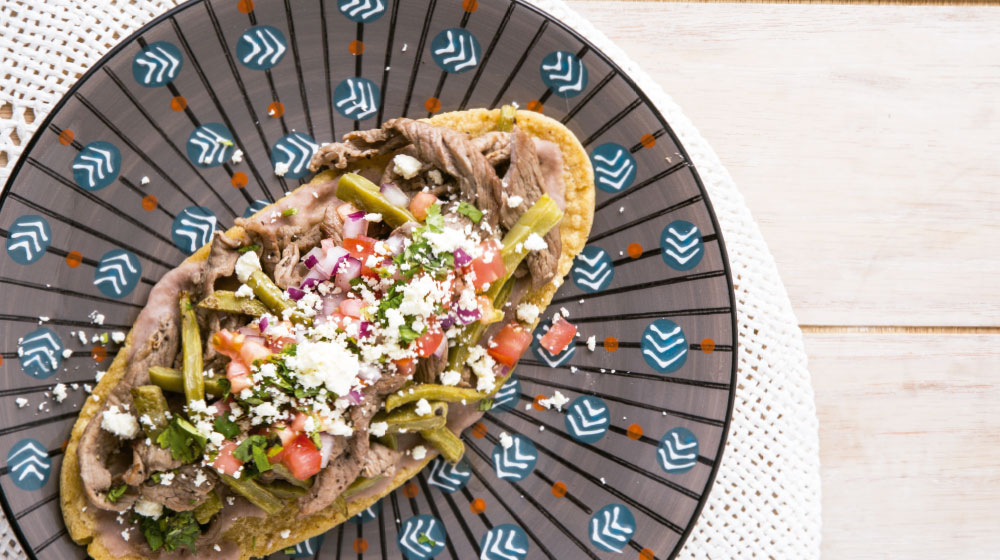
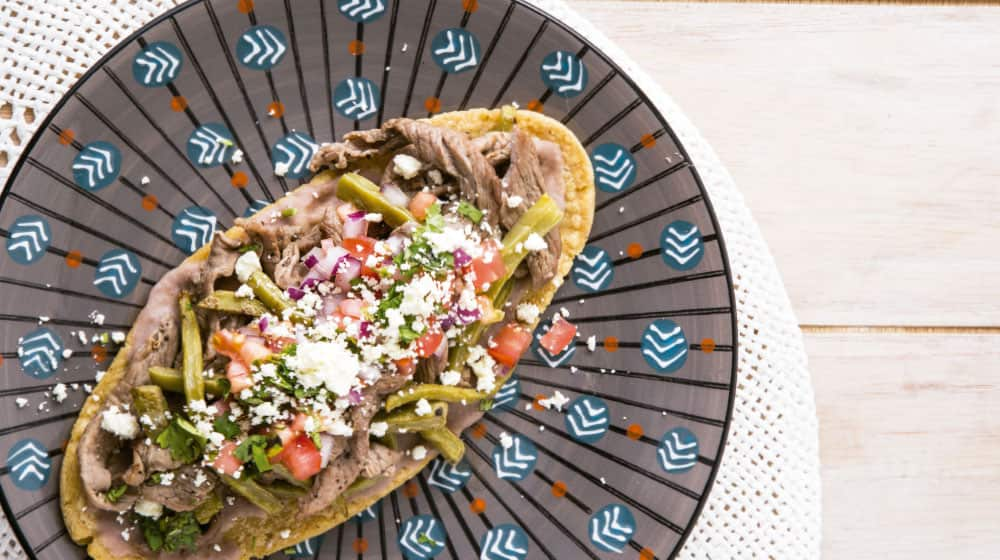
Optimizacion de las imagenes, bajandolas 7mb

diff --git a/desarrollo/js/comidas_bd.js b/desarrollo/js/comidas_bd.js
@@ -547,7 +547,7 @@ export const platillos_bd = {
 	},
 
 	info_platillo_garnacha_oaxaquena: {
-		nombre_platillo: 'garnacha_oaxaquena',
+		nombre_platillo: 'garnacha oaxaquena',
 		id_platillo: 'info_platillo_garnacha_oaxaquena',
 		ruta_imagen_platillo: 'Assets/img/garnacha_oaxaquena.JPG',
 		alt_imagen: 'garnacha_oaxaquena',
@@ -566,7 +566,7 @@ export const platillos_bd = {
 	info_platillo_molote_pollo: {
 		nombre_platillo: 'Molote Pollo',
 		id_platillo: 'info_platillo_molote_pollo',
-		ruta_imagen_platillo: 'Assets/img/molote_pollo.JPG',
+		ruta_imagen_platillo: 'Assets/img/molote.JPG',
 		alt_imagen: 'molote_pollo',
 		precio_platillo: '$40',
 		ingredientes_principales: ['Pollo'],
@@ -585,7 +585,7 @@ export const platillos_bd = {
 	info_platillo_molote_picadillo: {
 		nombre_platillo: 'Molote Picadillo',
 		id_platillo: 'info_platillo_molote_picadillo',
-		ruta_imagen_platillo: 'Assets/img/molote_picadillo.JPG',
+		ruta_imagen_platillo: 'Assets/img/molote.JPG',
 		alt_imagen: 'molote_picadillo',
 		precio_platillo: '$40',
 		ingredientes_principales: ['Picadillo'],
@@ -604,7 +604,7 @@ export const platillos_bd = {
 	info_platillo_molote_longaniza: {
 		nombre_platillo: 'Molote Longaniza',
 		id_platillo: 'info_platillo_molote_longaniza',
-		ruta_imagen_platillo: 'Assets/img/molote_longaniza.JPG',
+		ruta_imagen_platillo: 'Assets/img/molote.JPG',
 		alt_imagen: 'molote_longaniza',
 		precio_platillo: '$40',
 		ingredientes_principales: ['Longaniza'],
@@ -623,7 +623,7 @@ export const platillos_bd = {
 	info_platillo_molote_cecina: {
 		nombre_platillo: 'Molote Cecina',
 		id_platillo: 'info_platillo_molote_cecina',
-		ruta_imagen_platillo: 'Assets/img/molote_cecina.JPG',
+		ruta_imagen_platillo: 'Assets/img/molote.JPG',
 		alt_imagen: 'molote_cecina',
 		precio_platillo: '$40',
 		ingredientes_principales: ['Cecina'],
@@ -642,7 +642,7 @@ export const platillos_bd = {
 	info_platillo_molote_quesillo: {
 		nombre_platillo: 'Molote Quesillo',
 		id_platillo: 'info_platillo_molote_quesillo',
-		ruta_imagen_platillo: 'Assets/img/molote_quesillo.JPG',
+		ruta_imagen_platillo: 'Assets/img/molote.JPG',
 		alt_imagen: 'molote_quesillo',
 		precio_platillo: '$40',
 		ingredientes_principales: ['Quesillo'],
@@ -661,7 +661,7 @@ export const platillos_bd = {
 	info_platillo_molote_chicharron_prensado: {
 		nombre_platillo: 'Molote Chicharron Prensado',
 		id_platillo: 'info_platillo_molote_chicharron_prensado',
-		ruta_imagen_platillo: 'Assets/img/molote_chicharron_prensado.JPG',
+		ruta_imagen_platillo: 'Assets/img/molote.JPG',
 		alt_imagen: 'molote_chicharron_prensado',
 		precio_platillo: '$40',
 		ingredientes_principales: ['Chicharron Prensado'],

diff --git a/desarrollo/css/styles.css b/desarrollo/css/styles.css
@@ -385,35 +385,26 @@ header {
 }
 
 header .comanda {
-  display: -webkit-box;
-  display: -ms-flexbox;
-  display: flex;
-  -webkit-box-pack: center;
-      -ms-flex-pack: center;
-          justify-content: center;
-  -webkit-box-align: center;
-      -ms-flex-align: center;
-          align-items: center;
-  width: 100px;
-  height: 50px;
+  background-image: url("../Assets/svg/food_plate.svg");
+  background-repeat: no-repeat;
+  background-position: center;
   background-color: #44af69;
   border-radius: 0px 0 50px 50px;
   -webkit-box-shadow: 2px 0px 18px -5px rgba(0, 0, 0, 0.863);
           box-shadow: 2px 0px 18px -5px rgba(0, 0, 0, 0.863);
   position: absolute;
   right: 0%;
-  background-image: url("../Assets/svg/food_plate.svg");
-  background-repeat: no-repeat;
-  background-position: center;
-  -webkit-transition: ease all .15s;
-  transition: ease all .15s;
+  -webkit-transition: ease all 0.15s;
+  transition: ease all 0.15s;
+  height: 50px;
+  width: 100px;
 }
 
 header .comanda:hover {
-  -webkit-transition: ease all .15s;
-  transition: ease all .15s;
-  cursor: pointer;
   background-color: #fcab10;
+  cursor: pointer;
+  -webkit-transition: ease all 0.15s;
+  transition: ease all 0.15s;
 }
 
 * {
@@ -452,31 +443,5 @@ body .content main {
   -webkit-box-pack: center;
       -ms-flex-pack: center;
           justify-content: center;
-}
-
-.algo {
-  border: 2px solid #f8333c;
-  background: #f1f1f1;
-  border-radius: 5px;
-  color: #352f2f;
-  cursor: pointer;
-  font-weight: 600;
-  font-size: 20px;
-  height: 32px;
-  opacity: 0.8;
-  position: absolute;
-  right: 0%;
-  width: 32px;
-  -webkit-transition: ease all 85.2s;
-  transition: ease all 85.2s;
-}
-
-.algo:hover {
-  opacity: 1;
-  -webkit-transition: ease all 85.2s;
-  transition: ease all 85.2s;
-  color: #f1f1f1;
-  background: #f8333c;
-  font-weight: 700;
 }
 /*# sourceMappingURL=styles.css.map */

diff --git a/desarrollo/index.html b/desarrollo/index.html
@@ -213,7 +213,7 @@
 							<div class="main_platillo">
 								<img
 									loading="lazy"
-									src="Assets/img/molote_cecina.JPG"
+									src="Assets/img/molote.JPG"
 									alt="molote_cecina"
 								/>
 							</div>
@@ -245,7 +245,7 @@
 							<div class="main_platillo">
 								<img
 									loading="lazy"
-									src="Assets/img/molote_chicharron_prensado.JPG"
+									src="Assets/img/molote.JPG"
 									alt="molote_chicharron_prensado"
 								/>
 							</div>
@@ -277,7 +277,7 @@
 							<div class="main_platillo">
 								<img
 									loading="lazy"
-									src="Assets/img/molote_longaniza.JPG"
+									src="Assets/img/molote.JPG"
 									alt="molote_longaniza"
 								/>
 							</div>
@@ -309,7 +309,7 @@
 							<div class="main_platillo">
 								<img
 									loading="lazy"
-									src="Assets/img/molote_picadillo.JPG"
+									src="Assets/img/molote.JPG"
 									alt="molote_picadillo"
 								/>
 							</div>
@@ -341,7 +341,7 @@
 							<div class="main_platillo">
 								<img
 									loading="lazy"
-									src="Assets/img/molote_pollo.JPG"
+									src="Assets/img/molote.JPG"
 									alt="molote_pollo"
 								/>
 							</div>
@@ -373,7 +373,7 @@
 							<div class="main_platillo">
 								<img
 									loading="lazy"
-									src="Assets/img/molote_quesillo.JPG"
+									src="Assets/img/molote.JPG"
 									alt="molote_quesillo"
 								/>
 							</div>

diff --git a/desarrollo/css/_header_menu.scss b/desarrollo/css/_header_menu.scss
@@ -2,28 +2,25 @@ header {
 	z-index: 2;
 	height: 0%;
 	width: 100%;
-    position: relative;
-    right: 3%;
+	position: relative;
+	right: 3%;
 	// top: 2px;
 	.comanda {
-		display: flex;
-		justify-content: center;
-		align-items: center;
-		width: 100px;
-		height: 50px;
-		background-color: $color_verde;
+		background-image: url('../Assets/svg/food_plate.svg');
+		background-repeat: no-repeat;
+		background-position: center;
+        background-color: $color_verde;
 		border-radius: 0px 0 50px 50px;
 		box-shadow: 2px 0px 18px -5px rgba(0, 0, 0, 0.863);
 		position: absolute;
-		right: 0%;
-		background-image: url('../Assets/svg/food_plate.svg');
-		background-repeat: no-repeat;
-        background-position: center;
-        transition: ease all .15s;
+        right: 0%;
+		transition: ease all 0.15s;
+		height: 50px;
+        width: 100px;
 		&:hover {
-            transition: ease all .15s;
-			cursor: pointer;
 			background-color: $color_amarillo;
+			cursor: pointer;
+			transition: ease all 0.15s;
 		}
 	}
 }

diff --git a/desarrollo/css/styles.scss b/desarrollo/css/styles.scss
@@ -42,26 +42,3 @@ body {
 	}
 }
 
-.algo{
-	
-	border: 2px solid $color_rojo;
-	background: $color_blanco;
-	border-radius: 5px;
-	color: $color_cafe;
-	cursor: pointer;
-	font-weight: 600;
-	font-size: 20px;
-	height: 32px;
-	opacity: 0.8;
-	position: absolute;
-	right: 0%;
-	width: 32px;
-	transition: ease all 85.2s;
-	&:hover {
-		opacity: 1;
-		transition: ease all 85.2s;
-		color: $color_blanco;
-		background: $color_rojo;
-		font-weight: 700;
-	}
-}
